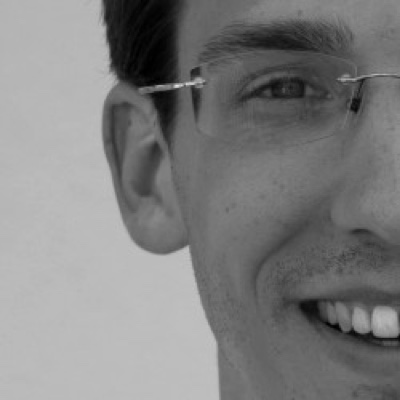
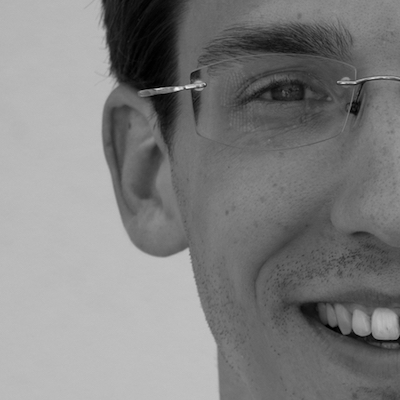
[ZRH-2018] Add Speakers Baruch, Nicole, Philipp (#4104)
* [ZRH-2018] Add Speakers Baruch, Nicole, Philipp

* [ZRH-2018] correcting twitter duplicate handle

* [ZRH-2018] Resize images of baruch, nicole, philip

diff --git a/content/events/2018-zurich/speakers/nicole-becher.md b/content/events/2018-zurich/speakers/nicole-becher.md
@@ -1,0 +1,24 @@
++++
+Title = "Nicole Becher"
+Twitter = "thedeadrobots"
+image = "nicole-becher.png"
+type = "speaker"
+linktitle = "nicole-becher"
+
++++
+
+Nicole Becher is professional information security consultant. 
+
+She has been in the cybersecurity space for over ten years working mainly in offensive security capacities.
+
+She manages penetration testing and red teams, forensics and incident responders, and malware reverse engineering teams. She has also worked on the cyber policy side for New York State Department of Financial Services, where she helped develop the first-in-nation regulatory framework for assessing the cybersecurity of large and complex financial institutions. 
+
+She also helped draft the first-in-nation regulatory and licensing framework for Bitcoin and virtual currencies. Nicole is also as an Adjunct Instructor at New York University, where she teaches courses on offensive and defensive computer security, network security, web application security, and computer forensics. 
+
+She is a chapter leader for OWASP Brooklyn (Open Web Application Security Project) and has presented both talks and trainings, at various conferences around the world on topics related to her research interests. These include web application security, malware analysis, economics of cybersecurity, cybercrime, and international cyberlaws and regulation. She has also advised Hollywood scriptwriters on cybersecurity and hacking (maybe mention that script writing is one of your interests as well?). 
+
+She is a Cybersecurity fellow of New America, a Washington DC-based think-tank, and is a fellow of the Madison Policy Forum, a cybersecurity-focused policy group bridging military, government and industry. 
+
+She is a Certified Information Systems Security Professional (CISSP). 
+
+Nicole is part of the Conservation SMART Technology Security Council is very active in the Animal Rescue and conservation technology movements.

diff --git a/content/events/2018-zurich/program/nicole-becher.md b/content/events/2018-zurich/program/nicole-becher.md
@@ -1,0 +1,20 @@
++++
+Talk_date = ""
+Talk_start_time = ""
+Talk_end_time = ""
+Title = "No REST for Security: Hacking API's"
+Type = "talk"
+Speakers = ["nicole-becher"]
++++
+
+API’s are everywhere! 
+
+We are living in the API Economy. Learn about the unique security challenges that exist in API-driven applications. In this talk, we will explore security vulnerabilities I've seen from pen-testing API’s, how to hack them and how to implement countermeasures to help developers to protect them.
+
+API security is becoming an important topic with developers, DevOps and DevSecOps alike. Whether its communicating with other microservices, containers, cloud services, applications or data stores, API’s are everywhere in a modern DevOps stack. 
+
+This talk will explore the basics of an API and dive deeply into the security issues that arise when developing API-driven applications. Some of these include how you can fingerprint an API, manipulate REST methods, an overview of different types of API authentication methods, such as Basic Authentication, Basic Digest, Session vs Token, JWT and OAuth. 
+
+Learn some of the weaknesses in these authentication schemes such as overstuffing a JWT, stealing an OAuth token and other attacks on the authorization flow. 
+
+We will also learn how the traditional web application security vulnerabilities can be used over API’s, like cross-site request forgery (CSRF), cross site scripting (XSS) and other injection attacks. Understand how to protect your API against availability attacks such as brute-force and Distributed Denial of Service attacks. Many attacks will be demonstrated live on intentionally vulnerable applications.

diff --git a/content/events/2018-zurich/speakers/baruch-sadogursky.md b/content/events/2018-zurich/speakers/baruch-sadogursky.md
@@ -1,0 +1,13 @@
++++
+Title = "Baruch Sadogursky"
+Twitter = "jbaruch"
+image = "baruch-sadogursky.png"
+type = "speaker"
+linktitle = "baruch-sadogursky"
+Website = "http://www.jfrog.com"
+
++++
+
+Baruch Sadogursky (a.k.a JBaruch) is the Developer Advocate at JFrog. For a living he hangs out with JFrog’s tech leaders, writes code around the JFrog Platform and its ecosystem, and then speaks and blogs about it all. He has been doing this for the last dozen years or so, and enjoys every minute of it.
+
+Baruch is @jbaruch on twitter and mostly blogs on http://www.jfrog.com/blog/ and http://blog.bintray.com. He is a professional conference speaker on DevOps, Java and Groovy topics, and is a regular at the industry’s most prestigious events including JavaOne (where he was awarded a Rock Star award), DockerCon, Devoxx, DevOps Days, OSCON, Qcon and many others. His full speaker history is available on Lanyrd: http://lanyrd.com/profile/jbaruch/sessions/

diff --git a/content/events/2018-zurich/program/philipp-krenn.md b/content/events/2018-zurich/program/philipp-krenn.md
@@ -1,0 +1,16 @@
++++
+Talk_date = ""
+Talk_start_time = ""
+Talk_end_time = ""
+Title = "Building Distributed Systems in Distributed Teams"
+Type = "talk"
+Speakers = ["philipp-krenn"]
++++
+
+At Elastic - the company behind the open source tools Elasticsearch, Kibana, Beats, and Logstash — everything is distributed; the company and our products. Building distributed systems is notoriously hard... building a distributed team, even more so. This talk dives into the details of how Elastic is thriving on its distributed model:
+
+- How Elastic started to be distributed by design.
+- What our shared values are and what we have learned as we progressed and grew to our current size.
+- What the day of an Elastician can look like.
+- What we are using in terms of tooling.
+- How we hire and onboard new employees.

diff --git a/content/events/2018-zurich/speakers/philipp-krenn.md b/content/events/2018-zurich/speakers/philipp-krenn.md
@@ -1,12 +1,12 @@
 +++
 Title = "Philipp Krenn"
-Website = ""
-Twitter = "xeraa "
-Github = ""
-image = "philipp-krenn.jpg"
+Twitter = "xeraa"
+image = "philipp-krenn.png"
 type = "speaker"
+linktitle = "philipp-krenn"
+
 +++
 
-Philipp is part of the infrastructure team and a developer advocate at Elastic. He is 
-frequently talking about full-text search, databases, operations, and security. 
-Additionally, he is organizing multiple meetups in Vienna.
+Philipp is part of the infrastructure team and a developer advocate at Elastic. 
+
+He is frequently talking about full-text search, databases, operations, and security. Additionally, he is organizing multiple meetups in Vienna.

diff --git a/content/events/2018-zurich/program/baruch-sadogursky.md b/content/events/2018-zurich/program/baruch-sadogursky.md
@@ -1,0 +1,16 @@
++++
+Talk_date = ""
+Talk_start_time = ""
+Talk_end_time = ""
+Title = "Data Driven Devops"
+Type = "talk"
+Speakers = ["baruch-sadogursky"]
++++
+
+DevOps is usually viewed from a traditional perspective of a collaboration of Dev, Ops, and QA, driven by the change in Culture, People, and Process. 
+
+But how do you know where you stand and where to move? 
+
+As in almost any field, data and metrics give you the gauges and instruments. 
+
+In this talk, we’ll talk about the key measurements for the DevOps transformation process and provide you with 3 metrics you can start measuring tomorrow.

diff --git a/content/events/2018-zurich/speakers.md b/content/events/2018-zurich/speakers.md
@@ -1,5 +1,5 @@
 +++
 Title = "Speakers"
 Type = "speakers"
-Description = "Speakers for DevOpsDays Zurich 2018"
+Description = "Speakers for devopsdays zurich 2018"
 +++
